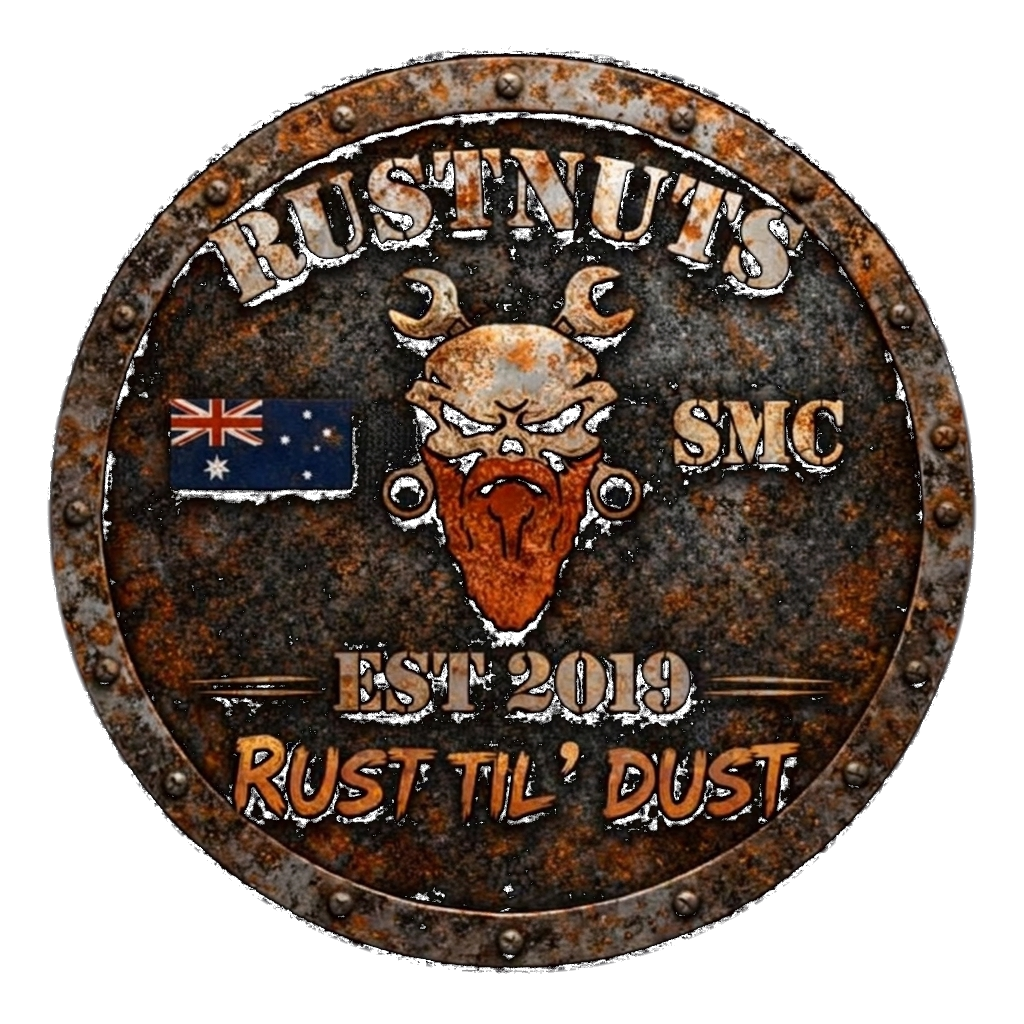
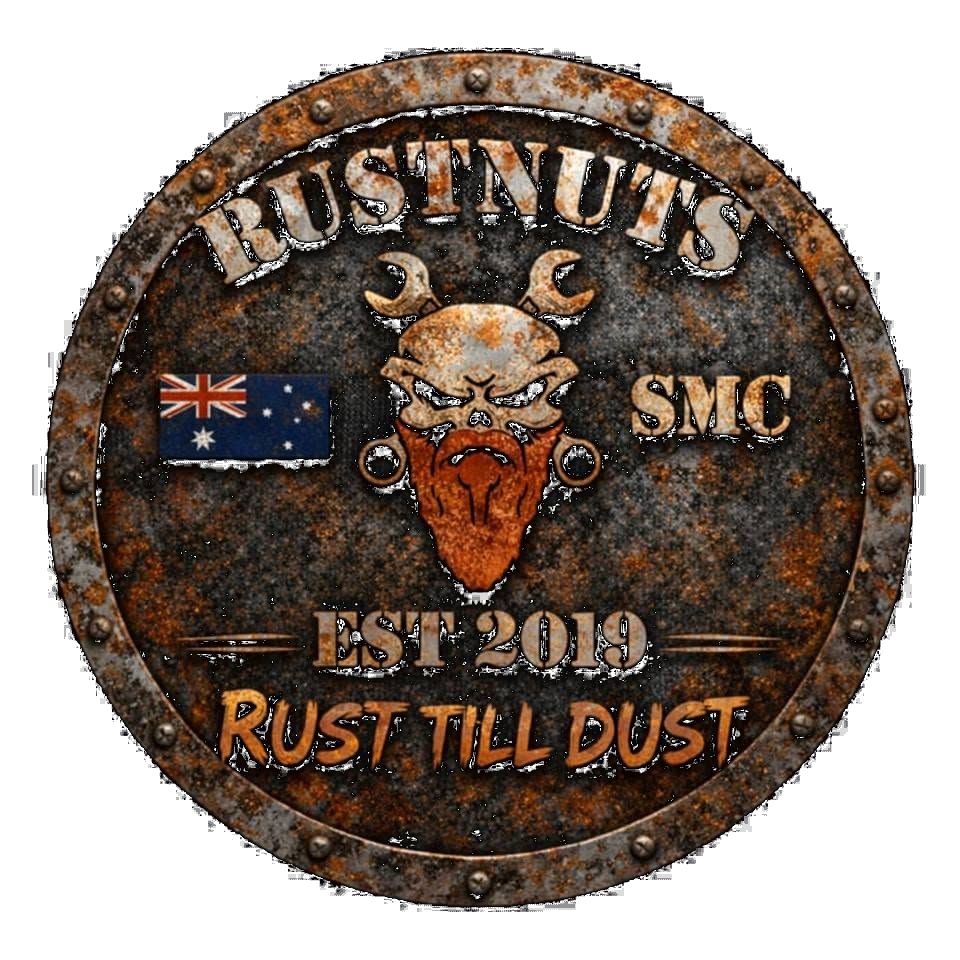
Fix "Rust Til' Dust" typo back to "Rust Till Dust"
Corrects an errant find-and-replace across the hero heading, about
section, and footer motto, and swaps the hero watermark badge back to
the correct artwork (the higher-res version had the same typo baked in).

Claude-Session: https://claude.ai/code/session_01No2mvWKhhVSDx2MmmdwkqW

diff --git a/index.html b/index.html
@@ -439,7 +439,7 @@
     <div>
       <h1 class="display">
         <span class="stroke">Rust</span>
-        <span class="fill">Til'</span>
+        <span class="fill">Till</span>
         <span class="stroke">Dust</span>
       </h1>
       <p class="tag">A Greater Melbourne social motorcycle club built on family, ride days and giving back.</p>
@@ -458,7 +458,7 @@
     <p class="eyebrow">Who We Are</p>
     <h2 class="display">More Than A Club</h2>
     <p class="lead">Rustnuts SMC is a social motorcycle club based in Greater Melbourne, Victoria. We started the way the best clubs do — a few mates and their machines — and grew into a family where riders connect, look out for one another and break down the isolation too many people carry on their own. We're a place to drop the mask, twist the throttle and belong.</p>
-    <p class="about-motto display">Rust Til' Dust.</p>
+    <p class="about-motto display">Rust Till Dust.</p>
   </div>
 </section>
 
@@ -833,7 +833,7 @@ console.error('Rustnuts ride list error:', err);
 </section>
 
 <footer>
-  <p class="motto">Rust Til' Dust</p>
+  <p class="motto">Rust Till Dust</p>
   <p><strong>Rustnuts SMC</strong> — Rustnuts Social Motorcycle Club Incorporated</p>
   <p>Greater Melbourne, Victoria, Australia &nbsp;|&nbsp; A not-for-profit incorporated association</p>
   <p style="margin-top:10px">&copy; <span id="yr"></span> Rustnuts SMC. All rights reserved.</p>

diff --git a/resources.html b/resources.html
@@ -309,7 +309,7 @@
 </section>
 
 <footer>
-  <p class="motto">Rust Til' Dust</p>
+  <p class="motto">Rust Till Dust</p>
   <p><strong>Rustnuts SMC</strong> — Rustnuts Social Motorcycle Club Incorporated</p>
   <p>Greater Melbourne, Victoria, Australia &nbsp;|&nbsp; <a href="index.html">Back to home</a></p>
   <p style="margin-top:10px">&copy; <span id="yr"></span> Rustnuts SMC. All rights reserved.</p>
